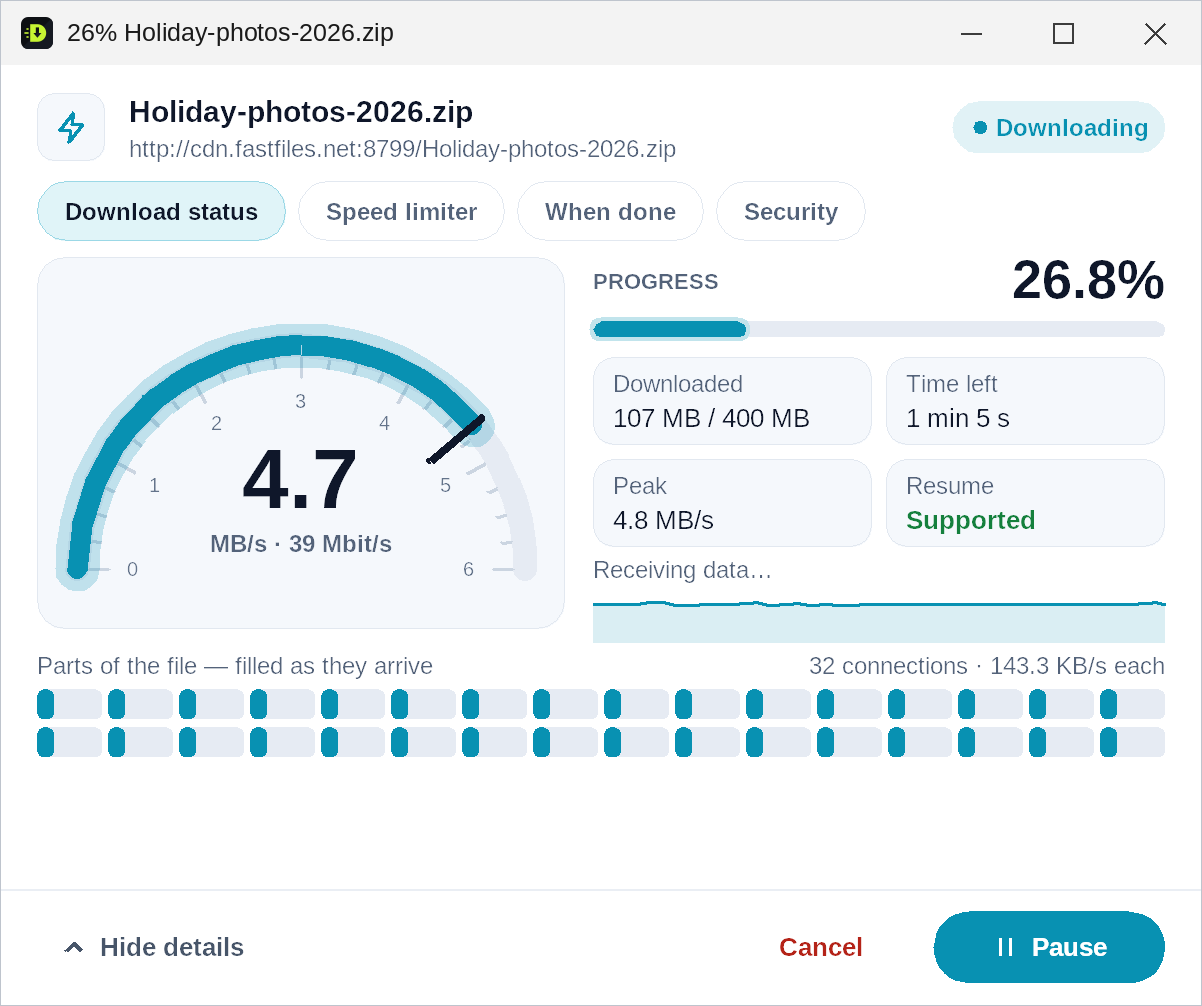
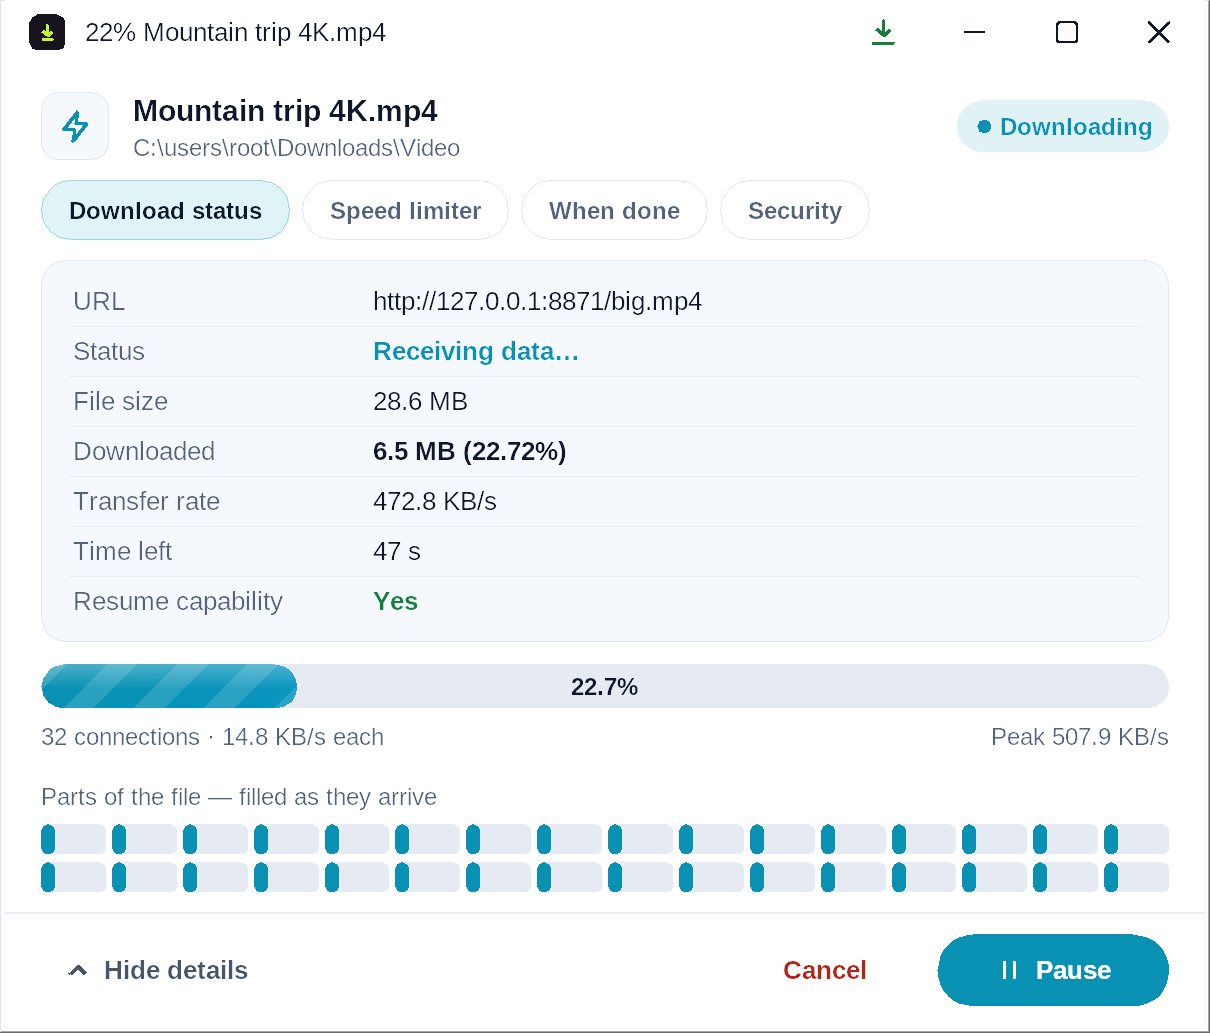
DDM 4.2.2: IDM-style download window, tray button in title bar

diff --git a/docs/index.html b/docs/index.html
@@ -24,14 +24,14 @@
   "applicationCategory": "UtilitiesApplication",
   "applicationSubCategory": "Download manager",
   "operatingSystem": "Windows 11, Windows 10, Windows 8.1, Windows 8, Windows 7",
-  "softwareVersion": "4.1.0",
+  "softwareVersion": "4.2.2",
   "programmingLanguage": "C++",
   "fileSize": "10MB",
   "downloadUrl": "https://github.com/officialdedsec/ddm/releases/latest",
   "url": "https://officialdedsec.github.io/ddm/",
   "screenshot": "https://officialdedsec.github.io/ddm/img/main-window.webp",
   "description": "Fast download manager, download accelerator and video downloader for Windows: up to 32 connections per file, YouTube, TikTok, Facebook and Instagram videos and playlists, torrents, MEGA, phone remote and security checks before every download.",
-  "featureList": "Up to 32 connections per file; resume expired downloads; video downloader for YouTube, TikTok, Facebook, Instagram, X, Vimeo; playlist and channel downloader; subscriptions; play while downloading; phone remote; torrent client; MEGA downloader; link and file security check; X-Ray archive preview; file tools; browser add-ons for Chrome, Edge and Firefox",
+  "featureList": "Up to 32 connections per file; resume expired downloads; video downloader for YouTube, TikTok, Facebook, Instagram, Bilibili, X, Vimeo; available in English, Bengali, Hindi, Urdu, Arabic, Spanish, French, Portuguese and Indonesian; playlist and channel downloader; subscriptions; play while downloading; phone remote; torrent client; MEGA downloader; link and file security check; X-Ray archive preview; file tools; browser add-ons for Chrome, Edge and Firefox",
   "offers": {"@type": "Offer", "price": "0", "priceCurrency": "USD", "description": "Free 30-day trial with every feature"},
   "publisher": {"@type": "Organization", "name": "DedSec Cyber Security Research Institute", "url": "https://dedseec.com"}
 }
@@ -95,7 +95,7 @@ footer { padding-block:32px 48px; color:var(--muted); font-size:14px; text-align
     <a class="cta" href="https://github.com/officialdedsec/ddm/releases/latest">⬇ Download DDM for Windows</a>
     <a class="ghost" href="#addons">Browser add-ons</a>
   </div>
-  <p class="meta">Version 4.1.0 · Windows 11 · 10 · 8 · 7 (32 &amp; 64-bit) · about 10 MB · <strong>free for 30 days with every feature</strong></p>
+  <p class="meta">Version 4.2.2 · Windows 11 · 10 · 8 · 7 (32 &amp; 64-bit) · about 10 MB · <strong>free for 30 days with every feature</strong></p>
 </header>
 
 <div class="wrap"><img class="shot" src="img/main-window.webp" alt="DDM download manager main window on Windows" width="1200" height="737"></div>
@@ -104,7 +104,8 @@ footer { padding-block:32px 48px; color:var(--muted); font-size:14px; text-align
   <h2>Everything a download manager should do — and more</h2>
   <div class="grid">
     <div class="card"><h3>🚀 Download accelerator</h3><p>Up to 32 connections per file and all your internet connections at once. Resumes after crashes, restarts and even expired links.</p></div>
-    <div class="card"><h3>🎬 Video downloader</h3><p>YouTube, TikTok, Facebook, Instagram, Reels, X, Vimeo, Dailymotion, Reddit, Snapchat and more, from 144p to 4K or as MP3. HLS and DASH streams too.</p></div>
+    <div class="card"><h3>🎬 Video downloader</h3><p>YouTube, TikTok, Facebook, Instagram, Reels, Bilibili, X, Vimeo, Dailymotion, Reddit, Snapchat and more, from 144p to 4K or as MP3. HLS and DASH streams too.</p></div>
+    <div class="card"><h3>🌍 In your language</h3><p>English, বাংলা, हिन्दी, اردو, العربية, Español, Français, Português and Bahasa Indonesia — every window and message, switched in one click.</p></div>
     <div class="card"><h3>📃 Playlists &amp; channels</h3><p>A whole YouTube playlist or channel in one click. Subscribe, and new videos download by themselves.</p></div>
     <div class="card"><h3>▶ Play while downloading</h3><p>Watch or listen before the file is finished. Jump ahead and that part is fetched first.</p></div>
     <div class="card"><h3>📱 Phone remote</h3><p>Scan a QR code to add, pause and resume downloads from your phone, on your own Wi-Fi only.</p></div>

diff --git a/README.md b/README.md
@@ -30,7 +30,7 @@
 
 ![DDM download manager for Windows — main window with downloads, categories, speed and progress](screenshots/main-window.png)
 
-**DDM (DedSec Download Manager)** is a download manager, download accelerator and video downloader for Windows. It splits every file into up to **32 parts downloaded at the same time**, resumes broken and expired downloads, and saves videos from **YouTube, TikTok, Facebook, Instagram, Reels, X (Twitter), Vimeo, Dailymotion, Reddit, Snapchat** and almost any other site with a video player, in **every quality from 144p to 4K or as MP3**. It also downloads **torrents, magnet links and MEGA folders**.
+**DDM (DedSec Download Manager)** is a download manager, download accelerator and video downloader for Windows. It splits every file into up to **32 parts downloaded at the same time**, resumes broken and expired downloads, and saves videos from **YouTube, TikTok, Facebook, Instagram, Reels, Bilibili, X (Twitter), Vimeo, Dailymotion, Reddit, Snapchat** and almost any other site with a video player, in **every quality from 144p to 4K or as MP3**. It also downloads **torrents, magnet links and MEGA folders**.
 
 What makes it different is **security**. Before a file reaches your PC, DDM checks **where it comes from and what it really is**: look-alike sites, fake installers, programs disguised as videos or PDFs, sites on public malware lists. Your antivirus only sees a file once it's already on your disk.
 
@@ -80,15 +80,17 @@ Looking for an **IDM alternative** or a **free download manager for Windows** yo
 - **Every internet connection at once**: Wi-Fi + Ethernet + phone hotspot added together.
 - **Resumes anything**: a dropped connection, a restart, sleep, or an **expired link**. *Refresh download link* continues from the exact byte.
 - **Starts the moment the window opens**, so *Start Download* picks up from what has already arrived.
+- **A download window like IDM's**: URL, status, size, downloaded, transfer rate, time left and resume capability at a glance, a big progress bar, and a second minimize button in its title bar that hides it in the tray.
+- **Clean folders**: unfinished parts wait in DDM's own folder; your folders only ever get finished files.
 - **Speed limiter** that lifts itself when nothing else is using the internet.
 - **Queues and a scheduler**: download at night, shut down or sleep when finished, and set limits for metered connections.
 
-![Download progress window with 32 connections, speed in KB/s and time left](screenshots/download-progress.png)
+![Download window with URL, status, file size, transfer rate, time left and a progress bar](screenshots/download-progress.png)
 
 ### 🎬 Video downloader for every site
 
 - A **"Download this video" button** appears above the videos you watch in your browser. Click it and pick a quality: **4K, 1440p, 1080p HD, 720p, 480p, 360p**, or just the **sound as MP3**.
-- **Sites**: YouTube (videos, Shorts and live), TikTok, Facebook (videos and Reels), Instagram (Reels and posts), Threads, Snapchat, X / Twitter, Vimeo, Dailymotion, Reddit, plus any site whose player shows its video in the page, also inside embedded players.
+- **Sites**: YouTube (videos, Shorts and live), TikTok, Facebook (videos and Reels), Instagram (Reels and posts), Threads, Bilibili (up to 4K), Snapchat, X / Twitter, Vimeo, Dailymotion, Reddit, plus any site whose player shows its video in the page, also inside embedded players.
 - **Streams (HLS .m3u8 and DASH .mpd)**: every quality, many pieces at a time, encrypted streams (AES-128), separate sound tracks joined. One normal **MP4** comes out without re-encoding. Live streams are recorded until you stop.
 - **Adapts by itself**: DDM's site rules update automatically (signed by DedSec) when a site changes, with no new version needed.
 - **Real names**: videos are named after their title or caption, never "(20+) Facebook", and hashtags and view counts are left out.
@@ -144,6 +146,9 @@ Right from the download list: **compress video**, **convert to MP3**, **trim**, 
 |---|---|
 | ![File tools in the right-click menu](screenshots/right-click-file-tools.png) | ![Convert video to MP3, compress, trim, GIF](screenshots/file-tools.png) |
 
+### 🌍 In your language
+DDM speaks **English, বাংলা (Bengali), हिन्दी (Hindi), اردو (Urdu), العربية (Arabic), Español, Français, Português (Brasil) and Bahasa Indonesia**. Pick one in Options → General → Language (or let DDM follow Windows): every window, menu, message and notification changes at once, with right-to-left reading for Arabic and Urdu.
+
 ### ✨ Everything else
 
 - **Browser add-ons** for Chrome, Edge, Firefox, Opera, Brave and Vivaldi: catch downloads, **Download all links / images**, and **Save page as PDF**.
@@ -158,7 +163,7 @@ Right from the download list: **compress video**, **convert to MP3**, **trim**, 
 
 ## Download and install
 
-1. Download **`DDM-Setup-4.1.0.exe`** from the **[latest release](https://github.com/officialdedsec/ddm/releases/latest)**.
+1. Download **`DDM-Setup-4.2.2.exe`** from the **[latest release](https://github.com/officialdedsec/ddm/releases/latest)**.
 2. Run it. It doesn't need administrator rights and installs for you only.
 3. DDM starts and offers its browser add-on. Chrome and Edge also offer it by themselves the next time they start.
 

diff --git a/CHANGELOG.md b/CHANGELOG.md
@@ -1,5 +1,61 @@
 # What's new in DDM
 
+## 4.2.2 — November 2026
+**The download window**
+- Its title bar now has two minimize buttons, like IDM: the green arrow (Minimize to system tray) sits next to Minimize, Maximize and Close; the usual – still puts it on the taskbar
+- The speedometer and the speed graph are gone; Show details / Hide details now shows or hides the parts of the file
+- Everything else stays as it was: the rows, the progress bar, Speed limiter, When done, Security, the tray icon and its menu
+
+## 4.2.1 — November 2026
+**The download window, like IDM's**
+- Download status now shows one row each: URL, Status, File size, Downloaded with its percentage, Transfer rate, Time left and Resume capability
+- A big progress bar with the percentage on it: stripes slide while it downloads, amber when paused, red on an error (with what went wrong written under it)
+- Show details / Hide details: the speedometer, the speed graph and the parts of the file are in the details; the window now really gets smaller when they're hidden, and on a small screen it opens with them hidden
+- A second minimize button, like IDM: the green arrow at the top right (also in the title bar's menu) hides the window in the tray with its own icon; the title bar's – now puts it on the taskbar (Options → General can make it go to the tray again)
+
+**Unfinished downloads stay out of your folders**
+- .ddmpart files and a video's separate picture and sound now wait in DDM's own folder for unfinished downloads; your folders only ever get the finished file
+- Options → Downloads → Folder for unfinished downloads lets you choose where they wait; what's already there moves along
+- Downloads started with an older DDM finish where they already are
+
+**TikTok**
+- Reels that still said "No video was found" are found: the browser add-on (4.0.5) also catches the posts TikTok's own player loads as you scroll
+- Photo slideshows offer their song, and DDM says when a post has no video
+
+## 4.2.0 — November 2026
+**DDM in your language**
+- DDM now speaks বাংলা (Bengali), हिन्दी (Hindi), اردو (Urdu), العربية (Arabic), Español, Français, Português (Brasil) and Bahasa Indonesia, as well as English
+- Options → General → Language changes every window, menu, button, message and notification at once; "Same as Windows" follows Windows' own language
+- Bengali and Hindi use Windows' own fonts for them; Arabic and Urdu read from right to left
+- File names, websites, video titles and your own categories always stay exactly as they are
+
+**Videos**
+- TikTok: reels that showed only "Open in DDM" now list every quality — your browser reads the post with your own session and hands it to DDM, so TikTok can't hide it any more
+- Bilibili (bilibili.com, b23.tv links, multi-part videos, series episodes, bilibili.tv): every quality up to 4K, picture and sound downloaded with many connections each and joined into one MP4; with your browser's sign-in you get the qualities your account allows
+
+**Security**
+- Your browser's cookies for a site are sent only to that site, never to another site a download link redirects to
+- A downloads list file someone sends you can no longer place files in Windows' startup folders or other system folders
+- "Save page as PDF" locks the page copy down before anything in it can run
+- X-Ray can't be made to use too much memory or read past a damaged archive's data
+- Windows parts DDM loads by name always come from Windows' own folder
+- The phone remote and the local player can't be held up by a slow or broken connection
+
+## 4.1.1 — November 2026
+**TikTok**
+- Swiping through the feed: the button always downloads the video you're watching, even when the address bar still shows another one
+- Every TikTok video is saved under its own caption (never "TikTok Embed.mp4" again), with its creator's name when it has no caption
+- The download window shows the video's cover picture, like for YouTube
+- When TikTok refuses DDM's first way of reading a video, its player page is read properly: caption, cover, length and the video itself
+- Every quality TikTok has for a video is offered (1080p, 720p, 540p…)
+
+**Facebook, Instagram, Threads**
+- Reels and videos are saved under the caption the creator wrote, with the video's own cover in the download window
+
+**Windows**
+- "File already downloaded" and the browser add-on questions: the window is now as wide as its buttons, so no button is ever cut off
+- "Add DDM to your browser": after clicking Add, the longer button no longer covers the browser's name
+
 ## 4.1.0 — November 2026
 **Videos**
 - TikTok: videos from the For You feed and from shared links (also links without the creator's name) are found again; DDM tries the video page and TikTok's own player page, with the cookies TikTok hands out

diff --git a/SECURITY.md b/SECURITY.md
@@ -8,7 +8,7 @@ Download DDM only from the [Releases page](https://github.com/officialdedsec/ddm
    **DedSec Cyber Security Research Institute**.
 2. **SHA-256.** Each release lists the installer's SHA-256 in its notes (and in `update.json`). In PowerShell:
    ```powershell
-   Get-FileHash .\DDM-Setup-4.1.0.exe -Algorithm SHA256
+   Get-FileHash .\DDM-Setup-4.2.2.exe -Algorithm SHA256
    ```
    The value must match exactly.
 3. **VirusTotal.** Each release links to its VirusTotal scan.
